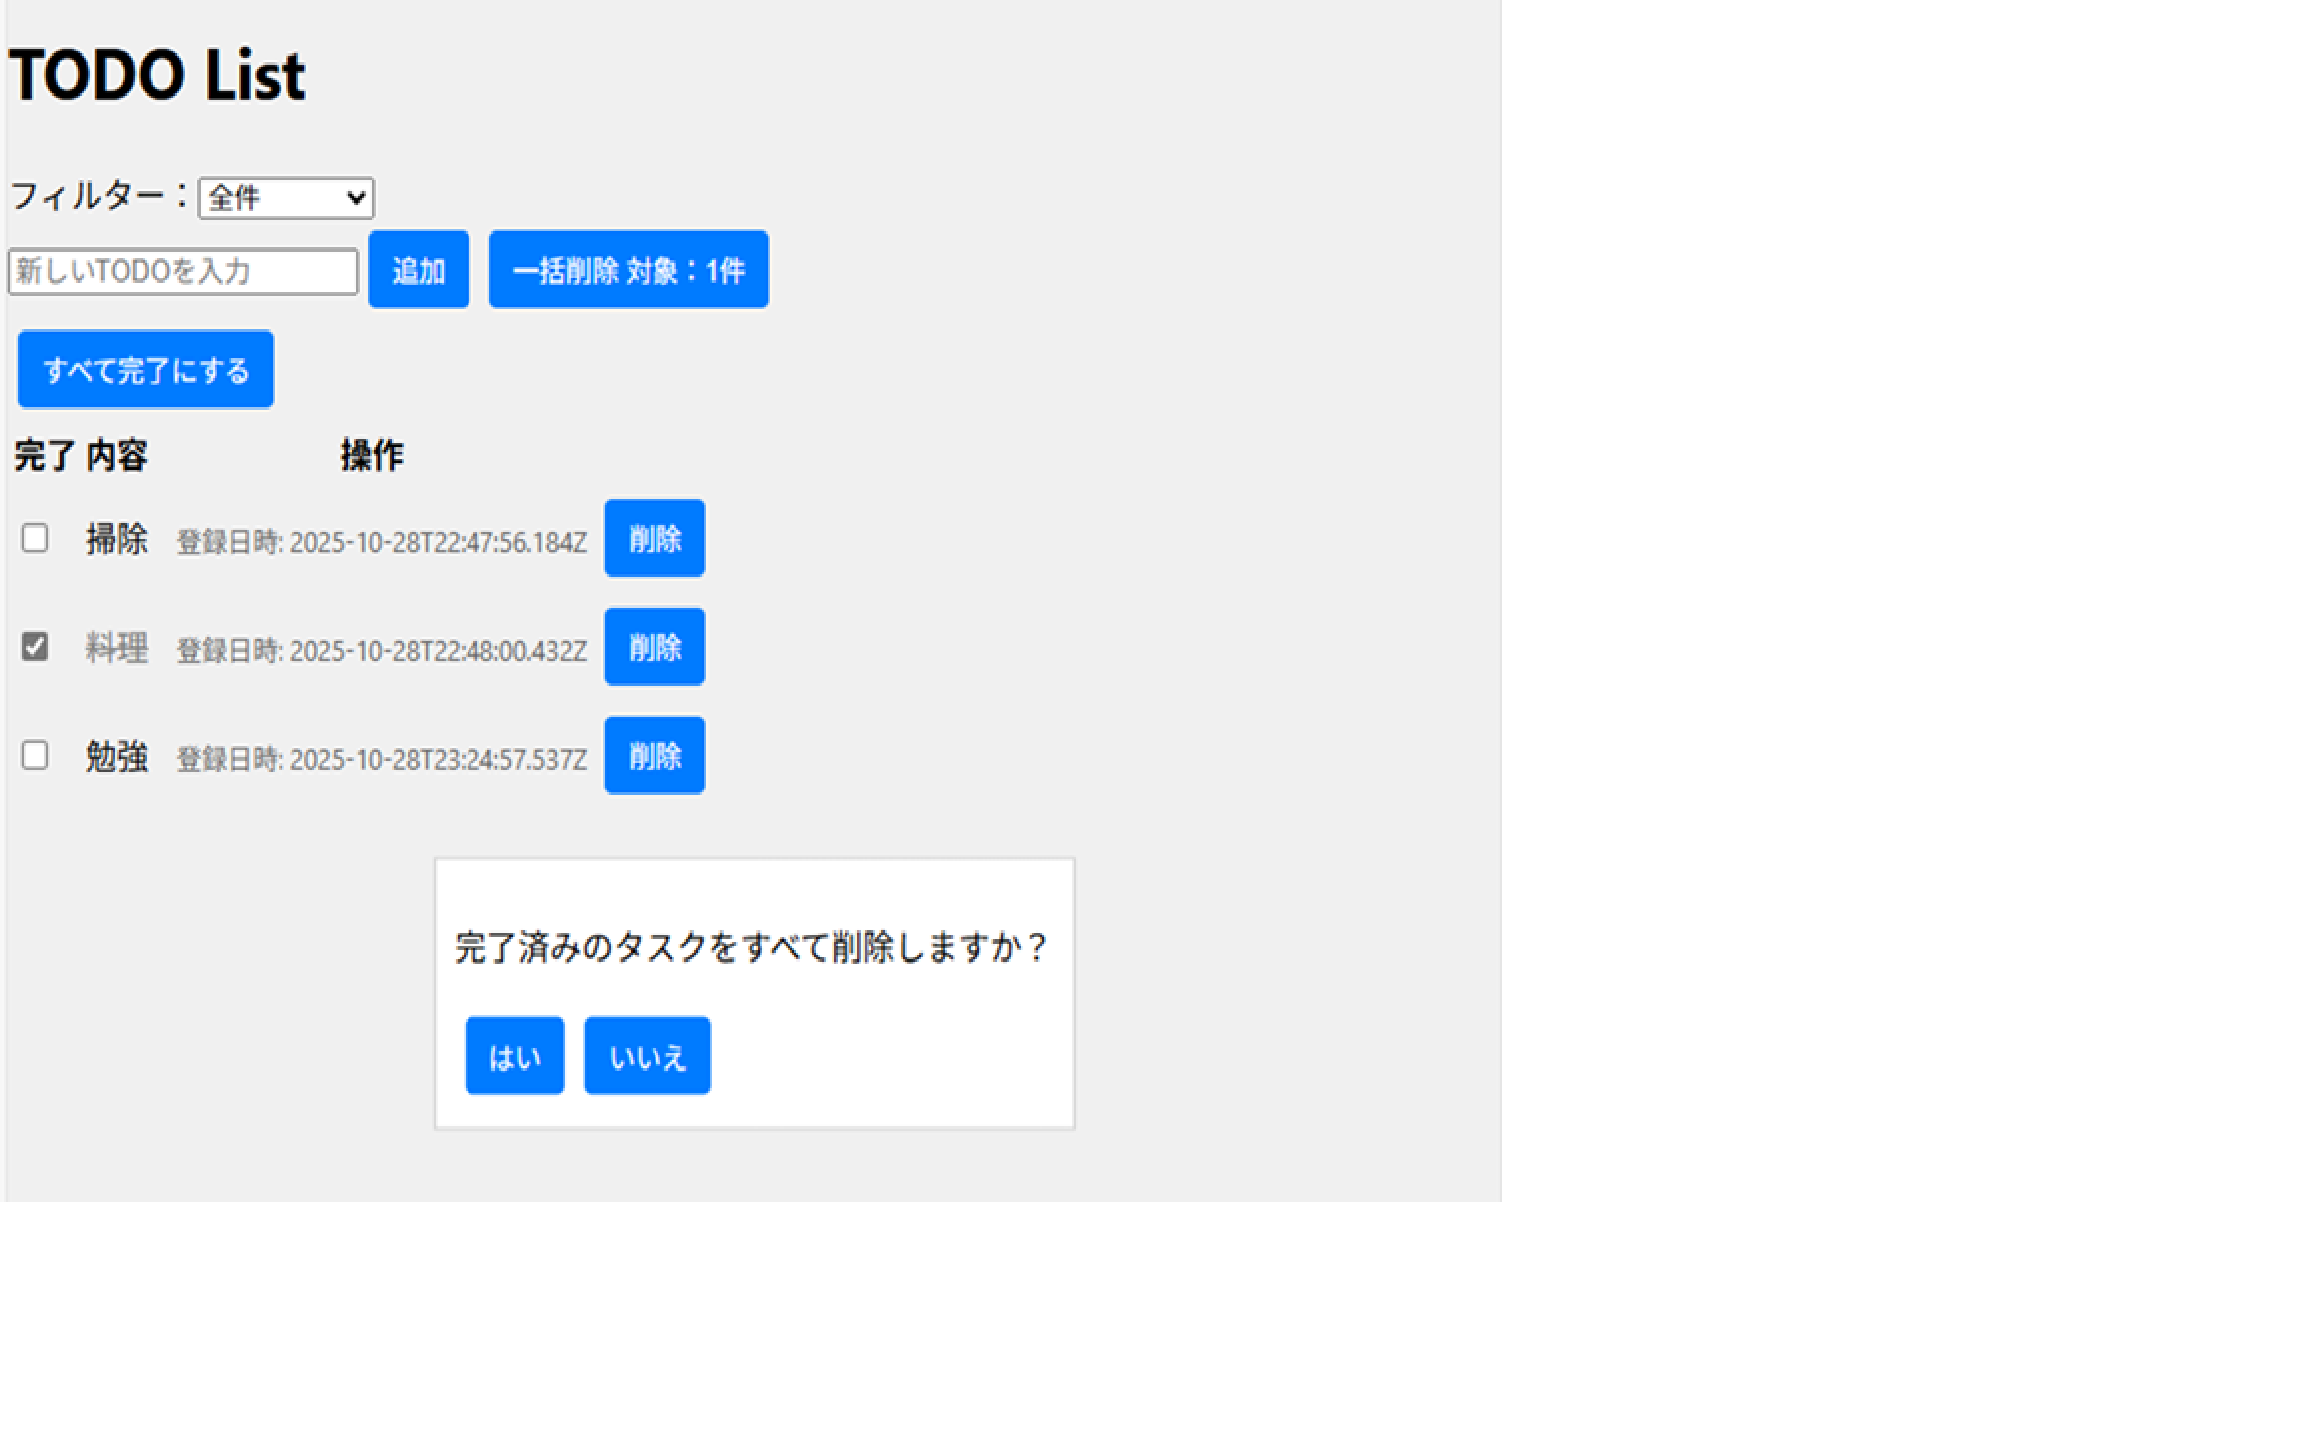
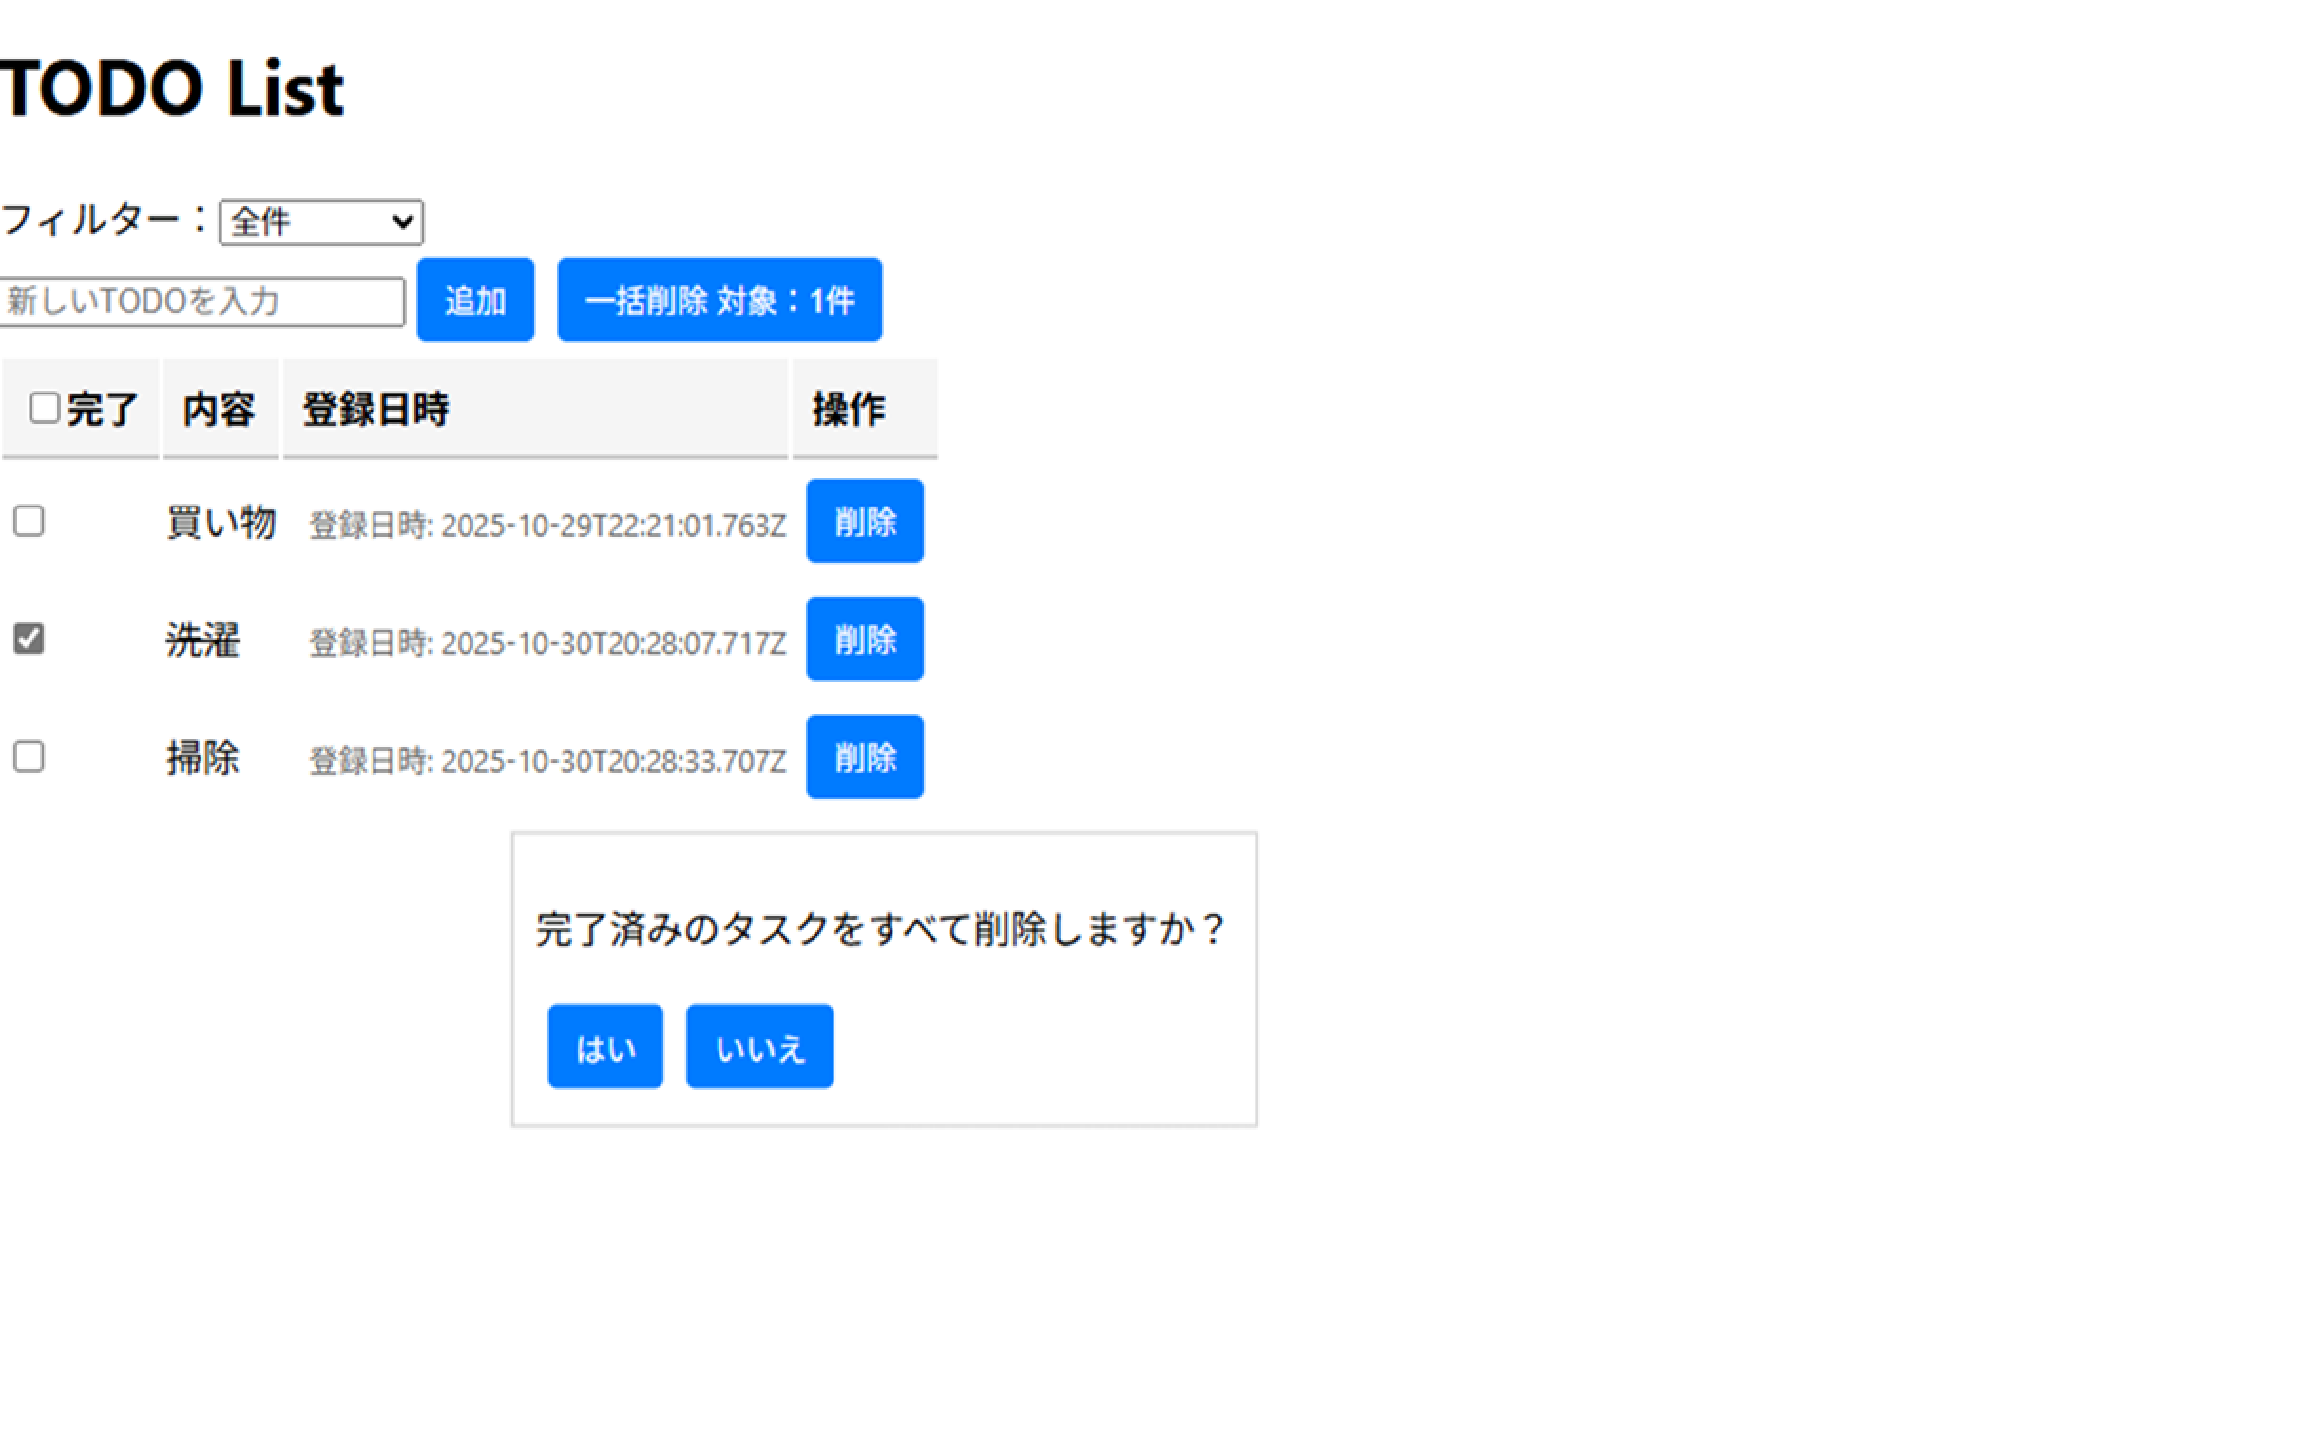
Merge：すべて未完了にする・すべて完了にするボタン→一覧ヘッダのチェックボックス に変更する

Changed region(s): [[0.0, 0.125, 0.4062, 0.5625], [0.1875, 0.625, 0.5312, 0.7812], [0.0, 0.0312, 0.1562, 0.0938]]

diff --git a/src/components/TodoList.tsx b/src/components/TodoList.tsx
@@ -1,12 +1,16 @@
 import React from "react";
 import { Todo } from "../types/todo"; // TODOの型定義
 import TodoItem from "./TodoItem"; // TodoItemコンポーネント
+import StyledTableHeader from "./StyledTableHeader"; // スタイリングされたテーブルヘッダーコンポーネント
 
 interface Props {
   filteredTodos: Todo[];
   deleteTodo: (id: number) => void; // propsの型定義
   toggleTodo: (id: number) => void; // propsの型定義
   updateTodo: (id: number, newText: string) => void; // propsの型定義
+  checkedCount: number;
+  checkAll: () => void;
+  uncheckAll: () => void;
 }
 
 const TodoList: React.FC<Props> = ({
@@ -14,15 +18,26 @@ const TodoList: React.FC<Props> = ({
   deleteTodo,
   toggleTodo,
   updateTodo,
+  checkedCount,
+  checkAll,
+  uncheckAll,
 }) => {
   return (
     <table>
       {/* ヘッダ部 */}
       <thead>
         <tr>
-          <th>完了</th>
-          <th>内容</th>
-          <th>操作</th>
+          <StyledTableHeader>
+            <input
+              type="checkbox"
+              checked={checkedCount === filteredTodos.length}
+              onChange={(e) => (e.target.checked ? checkAll() : uncheckAll())}
+            />
+            完了
+          </StyledTableHeader>
+          <StyledTableHeader>内容</StyledTableHeader>
+          <StyledTableHeader>登録日時</StyledTableHeader>
+          <StyledTableHeader>操作</StyledTableHeader>
         </tr>
       </thead>
 

diff --git a/src/App.tsx b/src/App.tsx
@@ -95,32 +95,15 @@ const App: React.FC = () => {
           )}
         </div>
 
-        <div>
-          {/* 一括完了・未完了ボタン どちらかを表示する*/}
-          {todos.length > 0 &&
-            (checkedCount === todos.length ? (
-              <StyledButton
-                onClick={uncheckAll}
-                title="完了をすべて未チェックとする"
-              >
-                すべて未完了にする
-              </StyledButton>
-            ) : (
-              <StyledButton
-                onClick={checkAll}
-                title="完了をすべてチェックとする"
-              >
-                すべて完了にする
-              </StyledButton>
-            ))}
-        </div>
-
         {/* 一覧 */}
         <TodoList
           filteredTodos={filteredTodos}
           deleteTodo={deleteTodo}
           toggleTodo={toggleTodo}
           updateTodo={updateTodo}
+          checkedCount={checkedCount}
+          checkAll={checkAll}
+          uncheckAll={uncheckAll}
         />
       </div>
     </>

diff --git a/src/components/TodoItem.tsx b/src/components/TodoItem.tsx
@@ -70,16 +70,14 @@ const TodoItem: React.FC<Props> = ({
 
       <td>
         {/* 削除ボタン */}
-        {isEditing && (
-          <StyledButton
-            onClick={(e) => {
-              e.stopPropagation();
-              deleteTodo(todo.id);
-            }}
-          >
-            削除
-          </StyledButton>
-        )}
+        <StyledButton
+          onClick={(e) => {
+            e.stopPropagation();
+            deleteTodo(todo.id);
+          }}
+        >
+          削除
+        </StyledButton>
       </td>
     </tr>
   );

diff --git a/src/components/StyledText.tsx b/src/components/StyledText.tsx
@@ -1,8 +1,16 @@
 import styled from "styled-components";
 
 const StyledText = styled.span<{ checked: boolean }>`
-  color: ${(props) => (props.checked ? "gray" : "black")};
-  text-decoration: ${(props) => (props.checked ? "line-through" : "none")};
+  text-decoration: ${({ checked }) => (checked ? "line-through" : "none")};
+  cursor: pointer;
+  position: relative;
+
+  &:hover::after {
+    content: "✏";
+    position: absolute;
+    right: -20px;
+    font-size: 0.8rem;
+  }
 `;
 
 export default StyledText;

diff --git a/src/styles/GlobalStyle.ts b/src/styles/GlobalStyle.ts
@@ -4,7 +4,7 @@ export const GlobalStyle = createGlobalStyle`
   /* CSSリセットやその他のグローバルスタイルをここに記述 */
   /* 例: */
   body {
-    background-color: #f0f0f0; /* 全体の背景色を設定 */
+    background-color: white; /* 全体の背景色を設定 */
     margin: 0;
     padding: 0;
     font-family: -apple-system, BlinkMacSystemFont, 'Segoe UI', 'Roboto', 'Oxygen',

diff --git a/src/components/StyledTableHeader.tsx b/src/components/StyledTableHeader.tsx
@@ -1,0 +1,9 @@
+import styled from "styled-components";
+
+const StyledTableHeader = styled.th`
+  border-bottom: 2px solid #ccc; // 下線のスタイル
+  background-color: #f5f5f5; // 背景色
+  padding: 8px; // 内側の余白
+  text-align: left; // テキストの配置
+`;
+export default StyledTableHeader;

diff --git a/README.md b/README.md
@@ -15,6 +15,8 @@
 - ✅ 編集機能の追加（2025/10/27）
 - ✅ useTodos.ts を導入し、状態管理（todos, filter, checkedCount など）を集約（2025/10/28）
 - ✅ リスト部にヘッダ追加（2025/10/29）
-
+- ✅ リスト部にヘッダ追加（2025/10/29）
+- ✅ StyledTableHeader の導入(2025/10/31)
+- ✅ すべて未完了にする・すべて完了にするボタン → 一覧ヘッダのチェックボックス に変更する(2025/10/31)
 
 ![代替テキスト](public/image.png)
